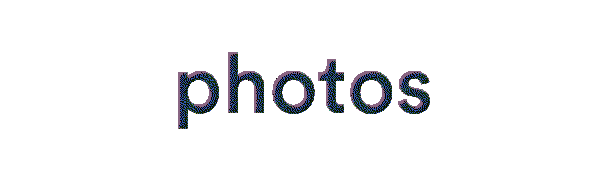
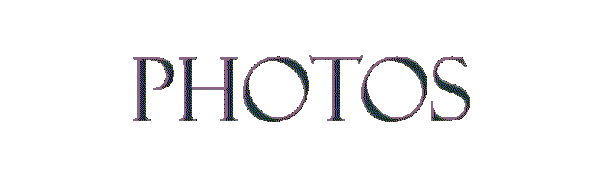
fixed backend

Changed region(s): [[0.21, 0.2841, 0.81, 0.7386]]

diff --git a/api/spotify.js b/api/spotify.js
@@ -25,12 +25,20 @@ const REFRESH_TOKEN = process.env.REFRESH_TOKEN;
 let lastPlayedSong = null;
 let lastListened = null;
 
+let cachedAccessToken = null;
+let tokenExpiresAt = 0;
+
 async function getAccessToken() {
+    if (cachedAccessToken && Date.now() < tokenExpiresAt) {
+        return cachedAccessToken;
+    }
+
     const response = await fetch("https://accounts.spotify.com/api/token", {
         method: "POST",
         headers: {
-            "Authorization":
-                "Basic " + Buffer.from(`${CLIENT_ID}:${CLIENT_SECRET}`).toString("base64"),
+            Authorization:
+                "Basic " +
+                Buffer.from(`${CLIENT_ID}:${CLIENT_SECRET}`).toString("base64"),
             "Content-Type": "application/x-www-form-urlencoded"
         },
         body: new URLSearchParams({
@@ -39,8 +47,20 @@ async function getAccessToken() {
         })
     });
 
+    if (!response.ok) {
+        const text = await response.text();
+        throw new Error(`Token refresh failed: ${response.status} ${text}`);
+    }
+
     const data = await response.json();
-    return data.access_token;
+
+    cachedAccessToken = data.access_token;
+
+    tokenExpiresAt = Date.now() + (data.expires_in - 60) * 1000;
+
+    console.log("Fetched new Spotify access token");
+
+    return cachedAccessToken;
 }
 
 function getContrastingTextColor(hex) {
@@ -54,6 +74,8 @@ function getContrastingTextColor(hex) {
 
     return luminance > 0.5 ? "#000000" : "#FFFFFF";
 }
+
+let currentTrackId = null;
 
 async function updateNowPlaying() {
     try {
@@ -69,6 +91,28 @@ async function updateNowPlaying() {
         );
 
         if (response.status === 204 || response.status === 202) {
+            console.log("Nothing playing");
+            return;
+        }
+
+        if (response.status === 429) {
+            const retryAfter = response.headers.get("Retry-After");
+
+            console.log(
+                `Spotify rate limited. Retry after ${retryAfter} seconds`
+            );
+
+            return;
+        }
+
+        if (!response.ok) {
+            const text = await response.text();
+
+            console.error(
+                `Spotify API error ${response.status}:`,
+                text
+            );
+
             return;
         }
 
@@ -76,13 +120,14 @@ async function updateNowPlaying() {
 
         if (!song.item) return;
 
-        const vibrant = new Vibrant.Vibrant(song.item.album.images[0].url);
+        const vibrant = new Vibrant.Vibrant(
+            song.item.album.images[0].url
+        );
+
         const palette = await vibrant.getPalette();
-
-        const darkVibrant = palette.DarkVibrant.hex;
-        const vibrantColor = palette.Vibrant.hex;
-        const muted = palette.Muted.hex;
-
+        const darkVibrant = palette.DarkVibrant?.hex || "#000000";
+        const vibrantColor = palette.Vibrant?.hex || "#ffffff";
+        const muted = palette.Muted?.hex || "#888888";
         const textColor = getContrastingTextColor(vibrantColor);
 
         if (song.is_playing) {
@@ -91,18 +136,28 @@ async function updateNowPlaying() {
 
         lastPlayedSong = {
             isPlaying: song.is_playing,
+
             title: song.item.name,
-            artist: song.item.artists.map(a => a.name).join(", "),
+
+            artist: song.item.artists
+                .map(a => a.name)
+                .join(", "),
+
             albumArt: song.item.album.images[0].url,
+
             elapsed: song.progress_ms,
             duration: song.item.duration_ms,
+
             darkVibrant,
             vibrantColor,
             muted,
             textColor,
+
             url: song.item.external_urls.spotify,
+
             lastListened
         };
+
     } catch (err) {
         console.error("Background update failed:", err);
     }
@@ -123,5 +178,5 @@ app.listen(PORT, () => {
 
   updateNowPlaying();
 
-  setInterval(updateNowPlaying, 3000);
+  setInterval(updateNowPlaying, 6000);
 });

diff --git a/public/index.html b/public/index.html
@@ -57,7 +57,7 @@
                 top: 730px; left: 9%;
             }
 
-            .left-planet-2 img {
+            .left-planet-1 img {
                 animation: spin 45s linear infinite;
             }
 
@@ -65,7 +65,7 @@
                 top: 250px; right: 9%;
             }
 
-            .right-planet-1 img {
+            .right-planet-2 img {
                 animation: spinReverse 60s linear infinite;
             }
 
@@ -73,21 +73,6 @@
                 top: 630px; right: 9%;
             }
 
-            .footer {
-                background-color: #E3D8D8 !important;
-
-                display: flex;
-                flex-direction: row;
-                justify-content: space-between;
-                align-items: center;
-                flex-wrap: wrap;
-
-                gap: 5px;
-            }
-
-            footer img {
-                width: 100px;
-            }
 
             #cat1 {
                 position: absolute;
@@ -257,11 +242,11 @@
         <h2 class="blink center">Welcome Home</h2>
 
         <div class="planet-grid">
-            <a href="/arcade/" class="planet-wrap left-planet-2">
+            <a href="/arcade/" class="planet-wrap right-planet-2">
                 <img class="planets" src="/images/planets/neptune.png">
                 <img class="planet-text" src="/images/planets/nep.png">
             </a>
-            <a href="/gallery/" class="planet-wrap left-planet-1">
+            <a href="/gallery/" class="planet-wrap right-planet-1">
                 <img class="planets left-planet-1" src="/images/planets/saturn.png">
                 <img class="planet-text" src="/images/planets/sat.png">
             </a>
@@ -281,17 +266,17 @@
         </div>
 
         <div class="planet-grid">
-            <a href="/photos/" class="planet-wrap right-planet-1">
+            <a href="/photos/" class="planet-wrap left-planet-1">
                 <img class="planets right-planet-1" src="/images/planets/earth.png">
                 <img class="planet-text" src="/images/planets/ear.png">
             </a>
-            <a href="/blog/" class="planet-wrap right-planet-2">
+            <a class="planet-wrap left-planet-2" style="cursor: not-allowed;">
                 <img class="planets right-planet-2" src="/images/planets/jupiter.gif">
                 <img class="planet-text" src="/images/planets/jup.png">
             </a>
         </div>
 
-        <h2 class="center">₊ ⊹ ˖</h2>
+        <img class="center" src="/images/frames/divider1.png">
 
         <div id="spotify-container" class="container outline">
             <div>
@@ -306,17 +291,6 @@
         </div>
         
         <script src="/spotifyUI.js"></script>
-
-        <h2 class="center">. ₊ ⊹ . ˖ .</h2>
-
-        <div class="container outline footer">
-            <img src="/images/banners/256_monitor_button.gif">
-            <img src="/images/banners/acab.gif">
-            <img src="/images/banners/adobe_photo.gif">
-            <img src="/images/banners/nodrugs.gif">
-            <img src="/images/banners/50041.gif">
-            <img src="/images/banners/hackclub.png">
-        </div>
         
 
         <p class="center copywrite">© 2026 Silas Unger</p>

diff --git a/public/style.css b/public/style.css
@@ -138,6 +138,24 @@ a {
     margin: 40px;
 }
 
+.footer {
+    margin-top: 40px;
+
+    background-color: #E3D8D8 !important;
+
+    display: flex;
+    flex-direction: row;
+    justify-content: space-between;
+    align-items: center;
+    flex-wrap: wrap;
+
+    gap: 5px;
+}
+
+footer img {
+    width: 100px;
+}
+
 @keyframes blink {
     30% { opacity: 0; }
 }

diff --git a/public/arcade/index.html b/public/arcade/index.html
@@ -106,7 +106,14 @@
             </div>
         </div>
 
-        
+        <div class="container outline footer">
+            <img src="/images/banners/256_monitor_button.gif">
+            <img src="/images/banners/acab.gif">
+            <img src="/images/banners/adobe_photo.gif">
+            <img src="/images/banners/nodrugs.gif">
+            <img src="/images/banners/50041.gif">
+            <img src="/images/banners/hackclub.png">
+        </div>
 
         <p class="center copywrite">© 2026 Silas Unger</p>
         <script src="/parallax.js"></script>

diff --git a/public/spotifyUI.js b/public/spotifyUI.js
@@ -62,4 +62,4 @@ async function updateSpotify() {
 }
 
 updateSpotify();
-setInterval(updateSpotify, 1000);
+setInterval(updateSpotify, 6000);